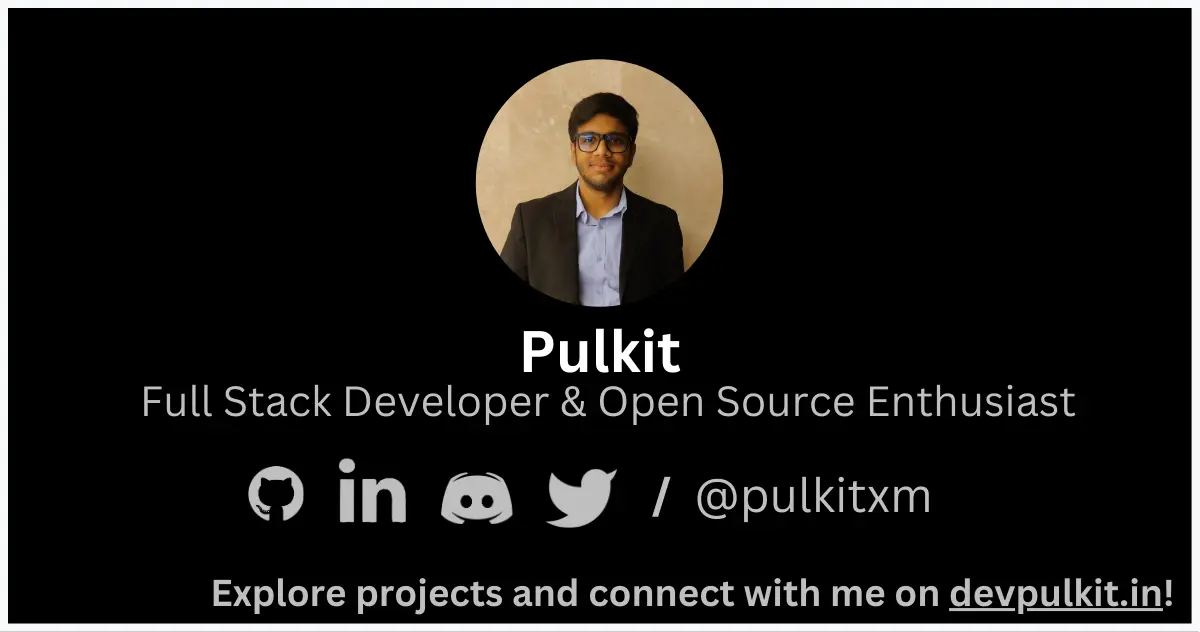
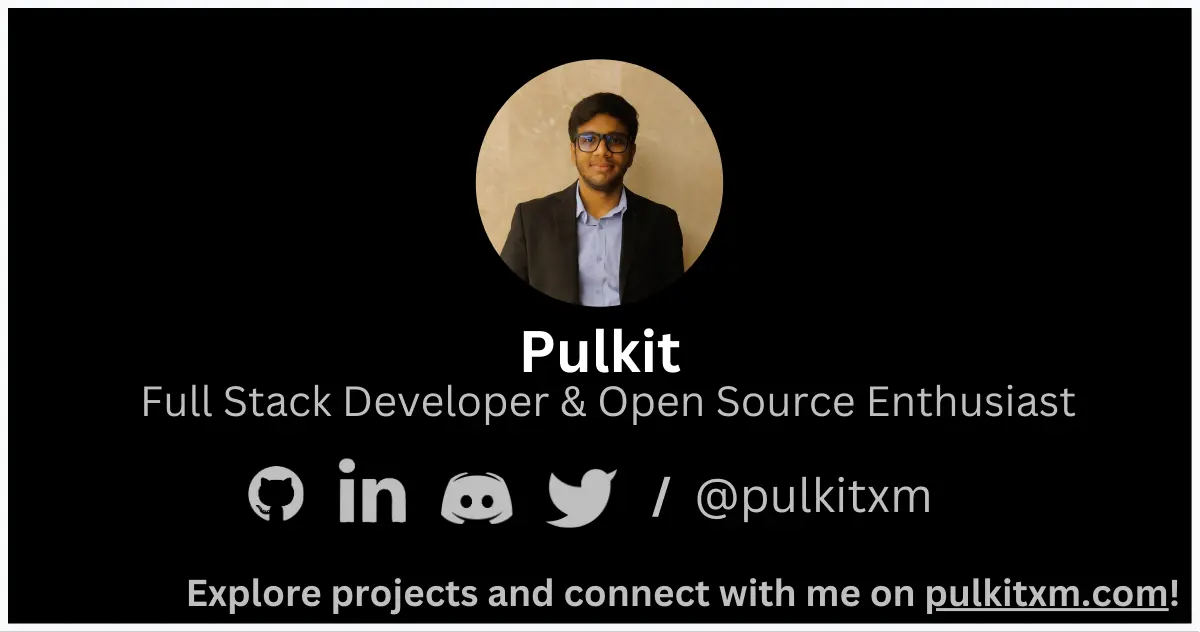
feat: migrating to pulkitxm.com from devpulkit.in

Changed region(s): [[0.1542, 0.9019, 0.9867, 0.962]]

diff --git a/src/data/profile/design.ts b/src/data/profile/design.ts
@@ -3,33 +3,33 @@ import { Design, DesignItem } from "@/types/profile";
 
 const portfolioDesigns: DesignItem[] = [
   {
-    title: "v5.devpulkit.in",
-    link: "https://v5.devpulkit.in",
-    githubLink: "https://github.com/pulkitxm/devpulkit.in",
+    title: "v5.pulkitxm.com",
+    link: "https://v5.pulkitxm.com",
+    githubLink: "https://github.com/pulkitxm/pulkitxm.com",
     image: assets.designs.portfolio.v5Portfolio
   },
   {
-    title: "v4.devpulkit.in",
-    link: "https://v4.devpulkit.in",
-    githubLink: "https://github.com/pulkitxm/v4.devpulkit.in",
+    title: "v4.pulkitxm.com",
+    link: "https://v4.pulkitxm.com",
+    githubLink: "https://github.com/pulkitxm/v4.pulkitxm.com",
     image: assets.designs.portfolio.v4Portfolio
   },
   {
-    title: "v3.devpulkit.in",
-    link: "https://v3.devpulkit.in",
-    githubLink: "https://github.com/pulkitxm/v3.devpulkit.in",
+    title: "v3.pulkitxm.com",
+    link: "https://v3.pulkitxm.com",
+    githubLink: "https://github.com/pulkitxm/v3.pulkitxm.com",
     image: assets.designs.portfolio.v3Portfolio
   },
   {
-    title: "v2.devpulkit.in",
-    link: "https://v2.devpulkit.in",
-    githubLink: "https://github.com/pulkitxm/v2.devpulkit.in",
+    title: "v2.pulkitxm.com",
+    link: "https://v2.pulkitxm.com",
+    githubLink: "https://github.com/pulkitxm/v2.pulkitxm.com",
     image: assets.designs.portfolio.v2Portfolio
   },
   {
-    title: "v1.devpulkit.in",
-    link: "https://v1.devpulkit.in",
-    githubLink: "https://github.com/pulkitxm/v1.devpulkit.in",
+    title: "v1.pulkitxm.com",
+    link: "https://v1.pulkitxm.com",
+    githubLink: "https://github.com/pulkitxm/v1.pulkitxm.com",
     image: assets.designs.portfolio.v1Portfolio
   }
 ];

diff --git a/src/data/profile/index.ts b/src/data/profile/index.ts
@@ -16,17 +16,17 @@ const profile: Readonly<Profile> = {
   caption: "Full Stack Developer & Open Source Enthusiast",
   image: assets.myImage,
   githubUserName: "pulkitxm",
-  resumeLink: "http://resume.devpulkit.in",
+  resumeLink: "http://resume.pulkitxm.com",
   calendlyUrl: "https://cal.com/pulkitxm",
-  sourceCodeUrl: "https://github.com/Pulkitxm/devpulkit.in",
+  sourceCodeUrl: "https://github.com/Pulkitxm/pulkitxm.com",
   email: "kpulkit15234@gmail.com",
   links: {
     github: "https://github.com/Pulkitxm",
     linkedin: "https://www.linkedin.com/in/pulkitxm",
     twitter: "https://x.com/devpulkitt",
-    blogPageUrl: "https://blogs.devpulkit.in/",
+    blogPageUrl: "https://blogs.pulkitxm.com/",
     discord: "http://discordapp.com/users/790426084994187304",
-    blogs: "https://blogs.devpulkit.in"
+    blogs: "https://blogs.pulkitxm.com"
   },
   experience,
   projects,

diff --git a/src/app/guestbook/layout.tsx b/src/app/guestbook/layout.tsx
@@ -5,14 +5,14 @@ import { SessionProviderWrapper } from "./SessionProvider";
 import type { Metadata } from "next";
 
 export const metadata: Metadata = {
-  metadataBase: new URL("https://devpulkit.in"),
+  metadataBase: new URL("https://pulkitxm.com"),
   title: "GuestBook - Pulkit",
   description: "Discover Pulkit's professional journey, roles, achievements, and the skills honed along the way.",
   openGraph: {
     title: "GuestBook - Pulkit",
     description:
       "Explore Pulkit's career highlights, including roles, projects, and key contributions in the tech industry.",
-    url: "https://devpulkit.in/guestbook",
+    url: "https://pulkitxm.com/guestbook",
     type: "website",
     images: [
       {

diff --git a/src/app/exp/layout.tsx b/src/app/exp/layout.tsx
@@ -3,14 +3,14 @@ import assets from "@/assets";
 import type { Metadata } from "next";
 
 export const metadata: Metadata = {
-  metadataBase: new URL("https://devpulkit.in"),
+  metadataBase: new URL("https://pulkitxm.com"),
   title: "Experience - Pulkit",
   description: "Discover Pulkit's professional journey, roles, achievements, and the skills honed along the way.",
   openGraph: {
     title: "Experience - Pulkit",
     description:
       "Explore Pulkit's career highlights, including roles, projects, and key contributions in the tech industry.",
-    url: "https://devpulkit.in/experience",
+    url: "https://pulkitxm.com/experience",
     type: "website",
     images: [
       {

diff --git a/src/app/prs/layout.tsx b/src/app/prs/layout.tsx
@@ -3,14 +3,14 @@ import assets from "@/assets";
 import type { Metadata } from "next";
 
 export const metadata: Metadata = {
-  metadataBase: new URL("https://devpulkit.in"),
+  metadataBase: new URL("https://pulkitxm.com"),
   title: "Prs - Open Source Contributions",
   description: "Discover Pulkit's professional journey, roles, achievements, and the skills honed along the way.",
   openGraph: {
     title: "Prs - Pulkit",
     description:
       "Explore Pulkit's career highlights, including roles, projects, and key contributions in the tech industry.",
-    url: "https://devpulkit.in/prs",
+    url: "https://pulkitxm.com/prs",
     type: "website",
     images: [
       {

diff --git a/src/app/gh-followers/layout.tsx b/src/app/gh-followers/layout.tsx
@@ -3,13 +3,13 @@ import assets from "@/assets";
 import type { Metadata } from "next";
 
 export const metadata: Metadata = {
-  metadataBase: new URL("https://devpulkit.in"),
+  metadataBase: new URL("https://pulkitxm.com"),
   title: "Github Followers - Pulkit",
   description: "Explore Pulkit's GitHub followers and their contributions to the developer community.",
   openGraph: {
     title: "Github Followers - Pulkit",
     description: "Take a look at Pulkit's github followers and their contributions to the developer community.",
-    url: "https://devpulkit.in/gh-followers",
+    url: "https://pulkitxm.com/gh-followers",
     type: "website",
     images: [
       {

diff --git a/src/app/layout.tsx b/src/app/layout.tsx
@@ -9,7 +9,7 @@ import FloatingCTA from "@/components/ui/floating-cta";
 import type { Metadata } from "next";
 
 export const metadata: Metadata = {
-  metadataBase: new URL("https://devpulkit.in"),
+  metadataBase: new URL("https://pulkitxm.com"),
   title: {
     default: "Pulkit - Developer",
     template: "%s | Pulkit - Developer"
@@ -19,7 +19,7 @@ export const metadata: Metadata = {
   openGraph: {
     title: "Pulkit - Developer",
     description: "Explore Pulkit's portfolio, projects, and insights into web development.",
-    url: "https://devpulkit.in",
+    url: "https://pulkitxm.com",
     type: "website",
     images: [
       {

diff --git a/src/app/blogs/layout.tsx b/src/app/blogs/layout.tsx
@@ -3,13 +3,13 @@ import assets from "@/assets";
 import type { Metadata } from "next";
 
 export const metadata: Metadata = {
-  metadataBase: new URL("https://devpulkit.in"),
+  metadataBase: new URL("https://pulkitxm.com"),
   title: "Blog - Pulkit",
   description: "Explore Pulkit's blog for insights on technology, development, and open-source projects.",
   openGraph: {
     title: "Blog - Pulkit",
     description: "Stay updated with Pulkit's thoughts and experiences in technology, development, and more.",
-    url: "https://devpulkit.in/blog",
+    url: "https://pulkitxm.com/blog",
     type: "website",
     images: [
       {

diff --git a/src/app/designs/layout.tsx b/src/app/designs/layout.tsx
@@ -3,13 +3,13 @@ import assets from "@/assets";
 import type { Metadata } from "next";
 
 export const metadata: Metadata = {
-  metadataBase: new URL("https://devpulkit.in"),
+  metadataBase: new URL("https://pulkitxm.com"),
   title: "Designs - Pulkit",
   description: "Explore Pulkit's portfolio designs showcasing creativity and development skills.",
   openGraph: {
     title: "Designs - Pulkit",
     description: "Take a look at Pulkit's previous portfolio designs and creative projects.",
-    url: "https://devpulkit.in/designs",
+    url: "https://pulkitxm.com/designs",
     type: "website",
     images: [
       {

diff --git a/src/app/resume/layout.tsx b/src/app/resume/layout.tsx
@@ -3,13 +3,13 @@ import assets from "@/assets";
 import type { Metadata } from "next";
 
 export const metadata: Metadata = {
-  metadataBase: new URL("https://devpulkit.in"),
+  metadataBase: new URL("https://pulkitxm.com"),
   title: "Resume - Pulkit",
   description: "Showcasing Pulkit's professional journey, skills, and achievements.",
   openGraph: {
     title: "Resume - Pulkit",
     description: "Delve into Pulkit's career highlights, key projects, and impactful contributions.",
-    url: "https://devpulkit.in/resume",
+    url: "https://pulkitxm.com/resume",
     type: "website",
     images: [
       {

diff --git a/src/app/contact/layout.tsx b/src/app/contact/layout.tsx
@@ -3,13 +3,13 @@ import assets from "@/assets";
 import type { Metadata } from "next";
 
 export const metadata: Metadata = {
-  metadataBase: new URL("https://devpulkit.in"),
+  metadataBase: new URL("https://pulkitxm.com"),
   title: "Contact - Pulkit",
   description: "Get in touch with Pulkit, a passionate developer and tech enthusiast.",
   openGraph: {
     title: "Contact - Pulkit",
     description: "Reach out to Pulkit to discuss projects, ideas, or opportunities.",
-    url: "https://devpulkit.in/contact",
+    url: "https://pulkitxm.com/contact",
     type: "website",
     images: [
       {

diff --git a/src/app/events/layout.tsx b/src/app/events/layout.tsx
@@ -3,13 +3,13 @@ import assets from "@/assets";
 import type { Metadata } from "next";
 
 export const metadata: Metadata = {
-  metadataBase: new URL("https://devpulkit.in"),
+  metadataBase: new URL("https://pulkitxm.com"),
   title: "Events - Pulkit",
   description: "Explore Pulkit's events and moments that shaped his journey.",
   openGraph: {
     title: "Events - Pulkit",
     description: "Take a look at Pulkit's events and moments that shaped his journey.",
-    url: "https://devpulkit.in/events",
+    url: "https://pulkitxm.com/events",
     type: "website",
     images: [
       {
